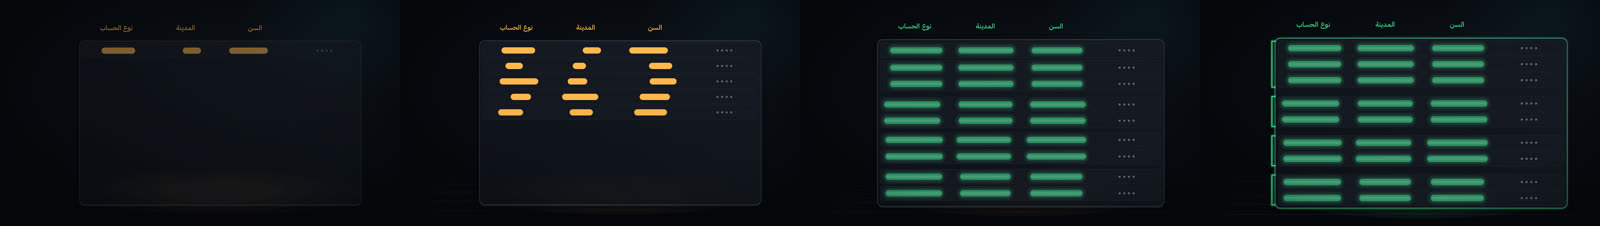
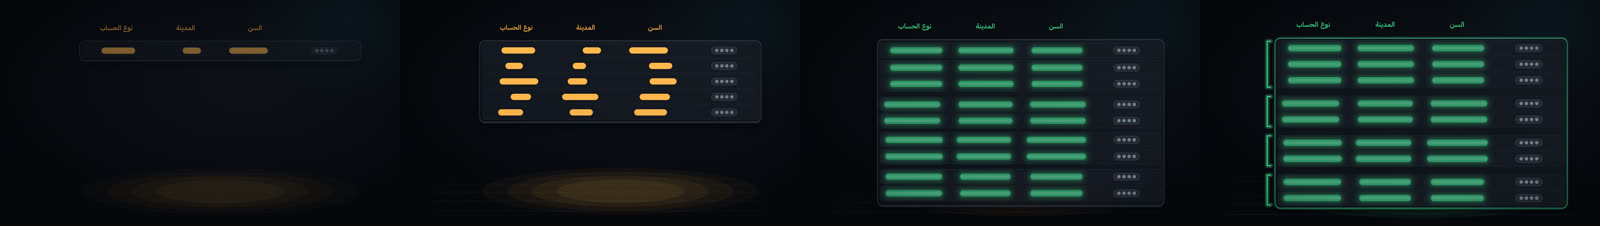
P7 dom-c: KAnonBlur round-1 critic non-blocking fixes (masked chip, offset glowing brackets, wider feather, plate sized to arrived rows); snap PASS det 0, perf lite 0.072 / standard 0.092 / hero 0.093, Arabic QA pass
Claude-Session: https://claude.ai/code/session_01VrU9wxU8GmuhdhWAAHnnQ8

diff --git a/studio/src/components/KAnonBlur/KAnonBlur.tsx b/studio/src/components/KAnonBlur/KAnonBlur.tsx
@@ -68,6 +68,7 @@ export const KAnonBlurView: React.FC<DcProps<Props>> = ({props, ctx}) => {
     return Math.round(y0 + (y1 - y0) * slideP);
   };
   const gid = `ka-${ctx.id}`;
+  const nVis = Array.from({length: props.rows}, (_, i) => i).filter((i) => t >= ctx.at + Math.round((1.5 * i * ctx.fps) / 24)).length;
   const rowEls: React.ReactNode[] = [];
   for (let i = 0; i < props.rows; i++) {
     const b = ctx.at + Math.round((1.5 * i * ctx.fps) / 24);
@@ -76,7 +77,8 @@ export const KAnonBlurView: React.FC<DcProps<Props>> = ({props, ctx}) => {
     const y = yAt(i);
     const cells: React.ReactNode[] = [];
     // masked identifier: four dots
-    for (let d = 0; d < 4; d++) cells.push(<circle key={`m${d}`} cx={cx(0) + (d - 1.5) * 22} cy={y + rowH / 2} r={5} fill={C.ink3} fillOpacity={0.7} />);
+    cells.push(<rect key="mchip" x={cx(0) - 62} y={y + rowH / 2 - 17} width={124} height={34} rx={17} fill={C.ink3} fillOpacity={0.14} stroke={C.ink3} strokeOpacity={0.35} strokeWidth={2} />);
+    for (let d = 0; d < 4; d++) cells.push(<circle key={`m${d}`} cx={cx(0) + (d - 1.5) * 24} cy={y + rowH / 2} r={8} fill={C.ink3} fillOpacity={0.85} />);
     for (let c = 0; c < q; c++) {
       const tg = gTime(c);
       const gp = tg === null ? 0 : prog(ctx, tg, P.morph);
@@ -96,6 +98,7 @@ export const KAnonBlurView: React.FC<DcProps<Props>> = ({props, ctx}) => {
           <rect x={mx - mw / 2} y={y + rowH / 2 - hh / 2} width={mw} height={hh} rx={hh / 2} fill={col} fillOpacity={1 - 0.45 * gp} />
           {gp > 0 ? (
             <>
+              <rect x={bandX - bandW / 2 - 30} y={y + rowH / 2 - R(hh * 1.3)} width={bandW + 60} height={2 * R(hh * 1.3)} rx={R(hh * 1.3)} fill={C.ok} fillOpacity={0.04 * gp} />
               <rect x={bandX - bandW / 2 - 16} y={y + rowH / 2 - R(hh * 1.05)} width={bandW + 32} height={2 * R(hh * 1.05)} rx={R(hh * 1.05)} fill={C.ok} fillOpacity={0.07 * gp} />
               <rect x={bandX - bandW / 2 - 8} y={y + rowH / 2 - R(hh * 0.8)} width={bandW + 16} height={2 * R(hh * 0.8)} rx={R(hh * 0.8)} fill={C.ok} fillOpacity={0.12 * gp} />
               <rect x={bandX - bandW / 2 + 6} y={y + rowH / 2 - R(hh * 0.2)} width={bandW - 12} height={2 * R(hh * 0.2)} rx={R(hh * 0.2)} fill={C.ink} fillOpacity={0.14 * gp} />
@@ -146,11 +149,11 @@ export const KAnonBlurView: React.FC<DcProps<Props>> = ({props, ctx}) => {
       const members = finalIdx.filter((pos) => gr.group[gr.order[pos]] === g);
       const yA = regionY + members[0] * rowH + g * gap + 5;
       const yB = regionY + (members[members.length - 1] + 1) * rowH + g * gap - 5;
-      const bx = tableX - 26;
+      const bx = tableX - 48;
       brackets.push(
         <g key={`g${g}`} opacity={bracketP}>
-          <path d={`M ${bx + 14} ${yA} L ${bx} ${yA} L ${bx} ${yB} L ${bx + 14} ${yB}`} fill="none" stroke={C.ok} strokeWidth={5} strokeLinecap="round" strokeLinejoin="round" />
-          <path d={`M ${bx + 14} ${yA} L ${bx} ${yA} L ${bx} ${yB} L ${bx + 14} ${yB}`} fill="none" stroke={C.ok} strokeOpacity={0.2} strokeWidth={16} strokeLinecap="round" strokeLinejoin="round" />
+          <path d={`M ${bx + 16} ${yA} L ${bx} ${yA} L ${bx} ${yB} L ${bx + 16} ${yB}`} fill="none" stroke={C.ok} strokeWidth={5} strokeLinecap="round" strokeLinejoin="round" />
+          <path d={`M ${bx + 16} ${yA} L ${bx} ${yA} L ${bx} ${yB} L ${bx + 16} ${yB}`} fill="none" stroke={C.ok} strokeOpacity={0.28} strokeWidth={22} strokeLinecap="round" strokeLinejoin="round" />
         </g>,
       );
     }
@@ -172,7 +175,7 @@ export const KAnonBlurView: React.FC<DcProps<Props>> = ({props, ctx}) => {
   return (
     <div style={{...boxStyle(ctx), ...shell(ctx)}}>
       <svg width={W} height={H} style={{position: 'absolute', left: 0, top: 0, overflow: 'visible', opacity: ent, pointerEvents: 'none'}}>{floor}</svg>
-      <div style={{position: 'absolute', left: tableX - 12, top: regionY - 10, width: tableW + 24, height: props.rows * rowH + (gr.groups - 1) * gap + 20, borderRadius: 26, ...acrylic(bracketP > 0 ? C.ok : C.ink3, ctx.fx, 0.2 + (bracketP > 0 ? 0.5 : 0) + ctx.mod.glow, bracketP === 0), opacity: ent}} />
+      <div style={{position: 'absolute', left: tableX - 12, top: regionY - 10, width: tableW + 24, height: Math.max(1, nVis) * rowH + Math.round((gr.groups - 1) * gap * slideP) + 20, borderRadius: 26, ...acrylic(bracketP > 0 ? C.ok : C.ink3, ctx.fx, 0.2 + (bracketP > 0 ? 0.5 : 0) + ctx.mod.glow, bracketP === 0), opacity: ent}} />
       <svg width={W} height={H} style={{position: 'absolute', left: 0, top: 0, overflow: 'visible', opacity: ent}}>
         {rowEls}
         {reticle}

diff --git a/docs/p7/catalog_status/dom-c.md b/docs/p7/catalog_status/dom-c.md
@@ -6,5 +6,5 @@
 | SagaChain | implemented | 2-8 saga steps (labels from props, step 1 on the right) as acrylic nodes on one RTL row joined by emissive forward wires; the saga token runs one step per 8 film frames and each step settles to ok (check badge). `fail {at}`: step `at` flashes crit with the one allowed failure shake, later steps stay dim and never start. `compensate`: compensation chips (labels from props) drop under the completed steps NEWEST FIRST, a warn return wire draws left to right between them, and each undone step greys out with a return-arc badge. Light per ADR-003 LK-F (acrylic rim light, floor pool, extruded edge, contact shadow). 2D DOM + SVG, no filter and no WebGL, so hero = standard. Demo = NilePay transfer saga (reserve balance, debit, transfer to operator fails, undo debit and reserve); no number is shown, so no data-contract ref. Baselines pending-critic. Snap PASS det 0 qa 0. Perf box s/frame at 3 slots: lite 0.067, standard 0.175 (measured under queue load; same DOM as hero 0.089), hero 0.089 (budgets 0.201 / 0.201 / 1.038). Arabic QA pass (8 strings, OCR 8/8, exact 7). Distinct from RaceCondition (shared counter) and DagRun (static DAG). |
 | QualityGauges | implemented | 1-6 dial gauges (RTL: gauge 1 on the right, short last row centred), one per metric: 240-degree bezel with engraved ticks and no numerals, glass face with extruded side and contact shadow (ADR-003 LK-F), a value arc that sweeps in one gauge every 3 film frames and counts to its value (mono tabular readout, unit in the same LTR isolate, source decimals kept), a bright threshold tick with a flag on the bezel. Scale: 0..100 for unit %, else 0..niceCeil(1.25 x max(value, threshold)). Status = the given status, else value >= threshold -> ok, below -> fail, no threshold -> active; the failing side of the track is tinted crit, a fail arc turns crit with one seeded 5 px shake on landing. The threshold has no ref in the contract, so it is an unlabelled tick (no unlabelled shown number). 2D DOM + SVG, no filter and no WebGL, so hero = standard. Demo = CH-34 p95 gate (d:6.11:2 355 ms ok, d:6.11:3 675 ms fail, limit 500 ms d:6.11:1), NilePay success rate (d:5.2:7 66.67 %), SQL funnel rows after JOIN (d:6.3:2, 13 of 14). Baselines pending-critic. Snap PASS det 0 qa 0. Perf box s/frame at 3 slots: lite 0.078, standard 0.130, hero 0.100 (budgets 0.201 / 0.201 / 1.038). Arabic QA pass (4 strings, OCR 4/4, exact 3). Distinct from NumberCounter (single count-up, no dial or gate) and PipelineStations (stage flow). |
 | IdempotentStamp | implemented | One idempotency key (chip from props, Latin code isolate) rides on every delivery: envelopes with the key glyph leave the sender outbox (start side, right) along a lane onto a ledger page. The FIRST delivery is written: a rubber stamp (acrylic handle + base, contact shadow closing on the page) comes down on the impact preset, leaves a green seal and fills ONE ledger row, then lifts and fades. Every later delivery with the same key reaches the seal, is recognised (warn ring + an equals mark pulse once), a dashed ghost row under the entry tries to appear and dissolves, and the envelope rebounds: never a second seal or row. Pips under the page count deliveries (ok = stamped, warn ring = absorbed duplicate), no digits. No `replay`: all `attempts` run 16 film frames apart; each `replay` re-sends attempts-1 duplicates (cap 16 pips in total). Light per ADR-003 LK-F. 2D DOM + SVG, no filter and no WebGL, so hero = standard. Demo = NilePay receipt T5 (d:5.2:5) retried with one key, attempts 3; the key is an identifier, not a shown number. `textRect` = the key chip. Baselines pending-critic. Snap PASS det 0 qa 0. Perf box s/frame at 3 slots: lite 0.071, standard 0.108, hero 0.107 (budgets 0.201 / 0.201 / 1.038). Arabic QA pass (1 Latin string; the component carries no Arabic copy). Distinct from RaceCondition (shared counter, lost update) and SagaChain (compensation). |
-| KAnonBlur | implemented | A table of `rows` (1-24) rows: a masked identifier column (four dots, RTL: right) plus one column per quasi-identifier (labels from props, 1-4). Every quasi cell starts as a sharp, unique warn mark; a warn linkage reticle hops row to row (a lone row can be re-identified by joining the quasi-identifiers with an outside list). `generalize` blurs the columns one after another (3 film frames apart): the sharp mark widens into a feathered band shared by its group, then the rows slide into floor(rows / k) groups of at least k identical rows (sizes differ by at most one), each closed by an ok bracket on the end side. Light per ADR-003 LK-F (acrylic plate, receding floor, coloured pool). 2D DOM + SVG, no CSS blur or SVG filter, so hero = standard. Cells carry no digits: k and rows are structural props with no ref, so the narration's k is shown by a NumberCounter / TermChip layer. Demo = CH-28 (d:6.9:1..3): nine rows, k = 2, quasi-identifiers age, city, account type. Baselines pending-critic. Snap PASS det 0 qa 0. Perf box s/frame at 3 slots: lite 0.088, standard 0.109, hero 0.129 (budgets 0.201 / 0.201 / 1.038). Arabic QA pass (3 strings, OCR 3/3 exact). Distinct from TableGrid (static table) and RowFunnel (row count filter). |
+| KAnonBlur | implemented | A table of `rows` (1-24) rows: a masked identifier column (four larger dots on a masked chip, RTL: right) plus one column per quasi-identifier (labels from props, 1-4). Every quasi cell starts as a sharp, unique warn mark; a warn linkage reticle hops row to row (a lone row can be re-identified by joining the quasi-identifiers with an outside list). `generalize` blurs the columns one after another (3 film frames apart): the sharp mark widens into a feathered band shared by its group (wider multi-layer halo), then the rows slide into floor(rows / k) groups of at least k identical rows (sizes differ by at most one), each closed by an ok bracket on the end side, offset clear of the plate with a glow; the plate grows with the rows that have arrived. Light per ADR-003 LK-F (acrylic plate, receding floor, coloured pool). 2D DOM + SVG, no CSS blur or SVG filter, so hero = standard. Cells carry no digits: k and rows are structural props with no ref, so the narration's k is shown by a NumberCounter / TermChip layer. Demo = CH-28 (d:6.9:1..3): nine rows, k = 2, quasi-identifiers age, city, account type. Baselines pending-critic. Snap PASS det 0 qa 0. Critic round 1 non-blocking items 3-6 applied (bigger masked chip, offset glowing brackets, wider feather, plate sized to arrived rows); baselines pending-critic again. Perf box s/frame at 3 slots: lite 0.072, standard 0.092, hero 0.093 (budgets 0.201 / 0.201 / 1.038). Arabic QA pass (3 strings, OCR 3/3 exact). Distinct from TableGrid (static table) and RowFunnel (row count filter). |
 | SplitDeck | implemented | A face-down deck of 50 cards (top centre) is dealt into 2-4 piles (split 1 on the right), one per split, label (whole word, colour per pile) + share number under it. `deal`: cards fly one per film frame from the deal word in a seeded shuffled order (`random(seed)`, never sorted), each turns face up to its pile colour in flight (the turn changes the box width, no scaleX transform) and lands on an extruded stack whose edge lines are the cards, so a pile's height is its share; the undealt remainder (shares summing below 100 %) stays in the deck. Cards = 50 apportioned by largest remainder. Light per ADR-003 LK-F (specular top edge and lit right edge as gradient layers, contact shadow, coloured floor pool, receding floor). 2D DOM, no filter and no WebGL, so hero = standard. Demo = CH-30 study-time split (35 % SQL, 25 % Python, 20 % AI concepts, 10 % Java CRUD; s:S4:P25:0052 / 0053; the 10 % practical projects stay in the deck). The ML train / validation / test shares are not in the corpus (data gap), so the demo shows no invented split. `textRect` = the label band. Engine note: `box-shadow: inset` and a scaleX-flipped card both flaked the 50 % determinism check with tile-seam differences (~1,180 px, intermittent, the same box-wide flake as TreeView / PageScan); `--approve` passed on retry with det 0. Baselines pending-critic. Snap PASS det 0 qa 0. Perf box s/frame at 3 slots: lite 0.087, standard 0.099, hero 0.096 (budgets 0.201 / 0.201 / 1.038). Arabic QA pass (4 strings, OCR 1/1 exact). Distinct from BarStack (value bars) and ABSplit (two-arm split). |
